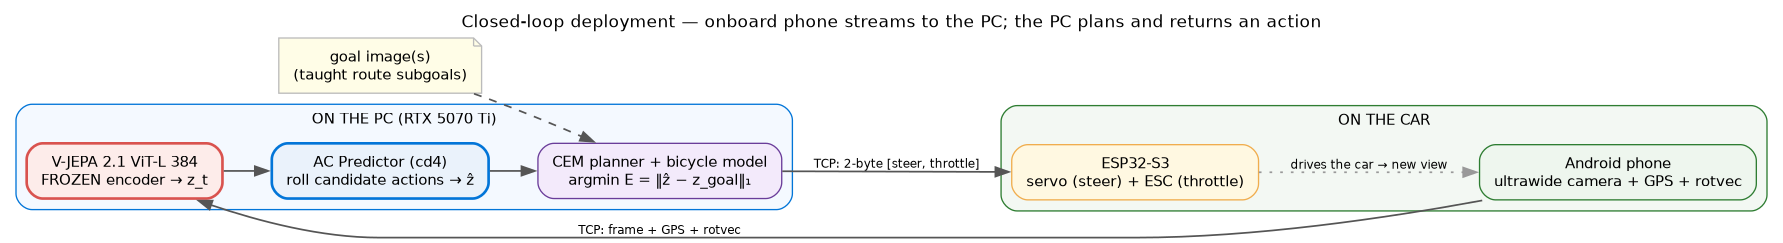
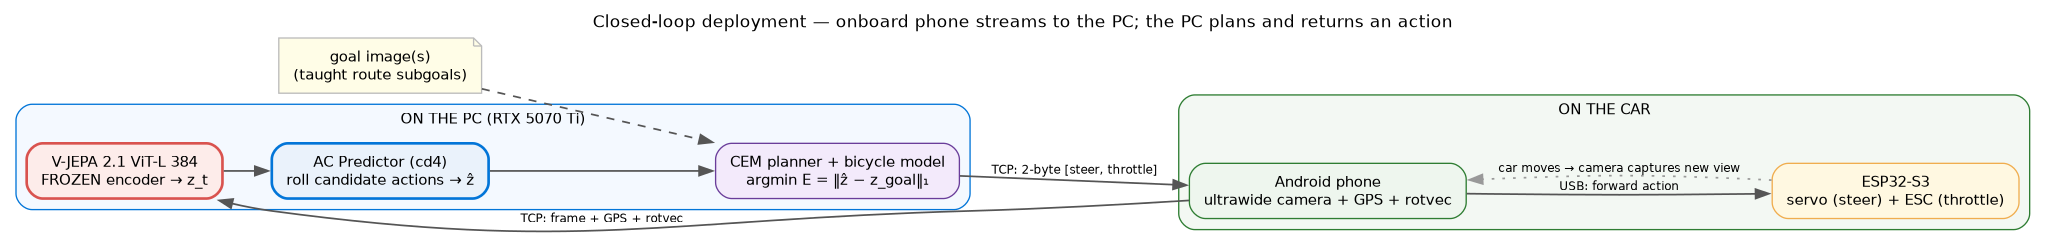
REPORT: expand §13 failure analysis, fix deploy diagram, add open-loop algo flowchart
- §13: add §13.3 (attempted localization remedies), §13.4 (standstill as
  structural creep-stop-creep issue, not --step artifact), §13.5 (latency),
  §13.6 (bicycle model vs proprioception), renumber §13.4-7 → §13.5-8
- Remove Figure 6 (action density) and Figure 19 (energy landscape);
  keep Figure 20 which is more concrete
- Fix deploy_loop.dot: action path PC→Phone(TCP)→ESP32(USB), not PC→ESP32
- Add open-loop planner algorithm as mermaid flowchart (§12.1 + §18.5)
- Fix Figure 23 caption to match corrected diagram

diff --git a/docs/report/2_REPORT_FULL.md b/docs/report/2_REPORT_FULL.md
@@ -46,7 +46,6 @@ action is generated from the visual goal, so changing the goal changes the behav
 - **Figure 3** — Representative onboard frames across time of day & both servo domains (§6.2)
 - **Figure 4** — Data pipeline: capture → sync → pair → split (§6.3)
 - **Figure 5** — Dataset overview by servo domain (§7.1)
-- **Figure 6** — Joint steering × throttle action density (§7.2)
 - **Figure 7** — Steering time series of a typical session (corrective driving) (§7.3)
 - **Figure 8** — Throttle distribution, two domains (§7.4)
 - **Figure 9** — Steering distribution (§7.4)
@@ -59,7 +58,6 @@ action is generated from the visual goal, so changing the goal changes the behav
 - **Figure 16** — Reference architecture: Meta V-JEPA 2-AC (§9.3)
 - **Figure 17** — Validation L1 loss curve (§9.6)
 - **Figure 18** — Cross-servo-domain transfer (§11.3)
-- **Figure 19** — Energy landscape / action sensitivity on a VAL session (§11.4)
 - **Figure 20** — Planner steering vs human steering (§11.4)
 - **Figure 21** — Energy contrast vs goal horizon d, justifying d = 4 (§12.1)
 - **Figure 22** — Joint energy landscape E(steer, throttle) for one VAL frame (§12.2)
@@ -381,14 +379,6 @@ domains. Session-level 80/20 split, seed 0 → **167 train / 42 val**.*
 
 *Table 1 — Action & motion distribution over all 228,511 frames.*
 
-The joint steering × throttle distribution (Figure 6) shows the actual action space the planner must
-operate in: steering spans the full range while throttle clusters tightly forward.
-
-![Joint steering × throttle density](figures/fig_data_steer_throttle_2d.png)
-*Figure 6 — Joint steering × throttle action density over the whole dataset. Throttle is concentrated
-in a narrow forward band (median 0.084) while steering uses the full [−1,1] range — this motivates the
-forward-biased throttle grid used by the planner in §12.1.*
-
 ### 7.3. The data DOES contain corrective driving
 The data is **free-form manual driving** in a park, not driving down a single straight line. With
 **13,871 turning events** and continuous two-sided steering oscillation (Figure 7), the human driver
@@ -659,15 +649,8 @@ higher because straight-driving frames also have a clear minimum at steer ≈ 0.
 
 → The model does **NOT "steer weakly" offline**: not only is it **95% correct in sign**, the chosen
 angle is also **close** to the human's — **median deviation only 0.146** on the [−1,1] scale (i.e.
-~7% of the full range). The energy minimum is clear and on the right side, on **both axes**. Figure 19
-visualizes the energy landscape on a VAL session, and Figure 20 shows the planner tracking the human's
-steering.
-
-![Energy landscape / action sensitivity](figures/fig_energy_landscape.png)
-*Figure 19 — Energy landscape on a VAL session: (A) for one turning frame, the steering energy valley
-(argmin = ●) sits on the human's turn side; (B) over the session's turning frames the model's
-sign-correct rate is ~95%; (C) the whole-session "bright ridge" (model-preferred steering) tracks the
-human's steering through the turns.*
+~7% of the full range). The energy minimum is clear and on the right side, on **both axes**. Figure 20
+shows the planner tracking the human's steering on a concrete VAL session with actual numbers.
 
 ![Planner steering vs human](figures/fig_steer_tracking.png)
 *Figure 20 — The planner picks steering that matches the human (VAL session `162959`, goal ~0.9 s
@@ -704,16 +687,30 @@ Take a held-out VAL session. For **each real frame** t:
 5. Compare against the human's real `(steer, throttle)` at that frame; **sign-turn** =
    sign(model_steer) == sign(human_steer) on frames with |human_steer| > 0.15.
 
-```
-for each real frame t in the VAL session:
-    z_t   ← latent of frame t        (pre-encoded)
-    z_goal ← latent of frame t+d     (the marker ~0.9 s ahead)
-    s_t   ← state 12-D at t
-    for (steer, throttle) in the 15×9 grid:    # 135 combinations
-        roll d steps through the AC predictor (state via bicycle model) → ẑ
-        E[steer, throttle] ← mean L1(ẑ, z_goal)
-    (steer*, throttle*) ← argmin E             # the model picks BOTH axes
-    record: sign(steer*) == sign(human_steer)?  ;  throttle* > 0?
+```mermaid
+%%{init: {'theme':'base','themeVariables':{'fontSize':'14px','primaryColor':'#eaf2fb','primaryBorderColor':'#0275d8','lineColor':'#444'}}}%%
+flowchart TB
+  START(["frame t in VAL session"]):::start --> FETCH
+  FETCH["z_t ← pre-encoded latent of frame t
+z_goal ← pre-encoded latent of frame t+d  ⟵ goal ~0.9 s ahead
+s_t ← state 12-D at t"]:::data --> GRID
+  GRID(["for (steer, throttle) in 15×9 grid — 135 combinations"]):::loop --> ROLL
+  ROLL["roll d steps: AC Predictor + bicycle model → ẑ"]:::compute --> ENERGY
+  ENERGY["E[steer, throttle] = mean L1(ẑ, z_goal)"]:::compute --> CHECK
+  CHECK{"more\ncombinations?"}:::decision
+  CHECK -- yes --> ROLL
+  CHECK -- no --> ARGMIN
+  ARGMIN["(steer*, throttle*) = argmin E
+model picks both axes simultaneously"]:::result --> RECORD
+  RECORD["sign(steer*) == sign(human_steer)?  ·  throttle* > 0?"]:::result --> NEXT
+  NEXT(["next frame t"]):::start --> FETCH
+
+  classDef start    fill:#e8f5e9,stroke:#2e7d32,stroke-width:1.5px
+  classDef data     fill:#eaf2fb,stroke:#0275d8,stroke-width:1.5px
+  classDef loop     fill:#fff8e1,stroke:#f0ad4e,stroke-width:1.5px
+  classDef compute  fill:#f3eafb,stroke:#6a3d9a,stroke-width:1.5px
+  classDef decision fill:#fdecea,stroke:#d9534f,stroke-width:1.5px
+  classDef result   fill:#e8f5e9,stroke:#2e7d32,stroke-width:1.5px
 ```
 
 **Why it is called OPEN-LOOP:** the video **plays back the real human drive** — the model **only
@@ -765,10 +762,13 @@ low-energy valley on the correct (left) turn side, at a forward throttle — a c
 > When the loop is closed for real, it **tracks the route well over the first half, then veers off**.
 > Tuning hyperparameters only **moves the breakaway point, it does not remove it** → the limit is in
 > the model/data/descriptor, not the hyperparameters. (~10 runs, 1 environment, 0 runs reached the goal
-> → the result is **qualitative + mechanistic**, not large-scale statistics.) The analysis attributes
-> the **primary** cause to the **localization stage** (a descriptor not invariant to lighting/heading),
-> **NOT** to representation quality; additionally a **secondary control deadlock when the car stands
-> still was patched** (footnote §13.3).
+> → the result is **qualitative + mechanistic**, not large-scale statistics.) The analysis identifies
+> multiple causes: the **primary** cause is the **localization stage** (a descriptor not invariant to
+> lighting/heading), **NOT** representation quality (§13.2); attempted localization remedies all fell
+> short within the deadline (§13.3); a **structural standstill deadlock** (creep–stop–creep from
+> inference latency, patched with a throttle floor — §13.4) and **variable inference latency** (§13.5)
+> force the car to drive blind between decisions; **coarse sensor state and bicycle-model dynamics**
+> (§13.6) further limit closed-loop precision.
 
 ### 13.1. Deployment & raw results
 **Flow.** *Teach:* drive manually once, capturing a sequence of goal images + GPS along the route
@@ -779,7 +779,8 @@ is a taught route with its visual subgoals.
 ![Closed-loop deployment](figures/fig_deploy_loop.png)
 *Figure 23 — Closed-loop deployment: the onboard phone streams frame + GPS + rotvec over TCP to the PC,
 which runs the frozen V-JEPA encoder → AC predictor → CEM planner and returns a 2-byte [steer,
-throttle] to the ESP32; the car drives, producing the next view. (Diagram source: `figures/src/deploy_loop.dot`.)*
+throttle] back to the **phone over TCP**; the phone forwards it to the **ESP32 over USB**, which drives
+the servo and ESC. (Diagram source: `figures/src/deploy_loop.dot`.)*
 
 ![Taught route and subgoals](figures/fig_route_graph.png)
 *Figure 24 — A taught route and its visual subgoals (the images the local CEM chases in order): the
@@ -858,10 +859,64 @@ centered-cos < 0.1 → energy flat in steering → CEM loses gradient → full-l
 > cross-session — §16). **The deadline-compatible fix = re-teach in the SAME session** (the descriptor
 > is very good when lighting is close).
 
-### 13.3. Footnote — a secondary control deadlock when the car stands still (patched, NOT the primary cause)
-While debugging with the `--step` mode, in addition to the primary cause (A) we hit a **secondary**
-issue: when the car is **standing still** the `E(steer)` landscape is also flat — but for a **dynamics**
-reason, not a descriptor reason.
+### 13.3. Attempted remedies for the localization collapse (all insufficient within the deadline)
+
+After identifying cause A, several remedies were tested. All reduced the symptom partially but did not
+eliminate the root cause (descriptor sensitivity to lighting/heading change):
+
+1. **Tuning the cosine threshold** (the cutoff below which the goal is considered "lost"). Lowering it
+   → the car pops to the next goal too eagerly on a false match; raising it → the car stays locked on a
+   collapsed goal. Moving the threshold only shifts *when* the collapse manifests, not *whether* it
+   happens. The breakaway point moves to a different subgoal — the car still veers.
+
+2. **Teaching and running in the same session, close in time.** This works: 66% of ticks have cos > 0.3
+   when teach and run are close in time vs 0% when lighting shifts (§13.2, Figure 26). However it
+   constrains operation to a narrow time window (teach, then run immediately) — the general case (teach
+   once, re-run any time) is not solved.
+
+3. **GPS-gated goal-popping** (advance to the next subgoal when GPS distance to marker < threshold
+   rather than waiting for cos > threshold). The 1 Hz GPS and ~0.44 m noise cause erratic triggering:
+   the pop fires before the car has reached the marker, or fails to fire because the GPS fix drifts.
+   Combined with heading uncertainty it does not reliably pop at the right moment.
+
+4. **CEM parameter sweeps** (N samples, K iterations, initial σ). These shift the breakaway point
+   (better coverage of the action space slightly delays the onset of flat landscape) but cannot fix the
+   root cause: once the localization cosine collapses, the goal energy is uniformly low across actions
+   → no parameter change rescues a flat landscape.
+
+The principled fix (a learned cross-session invariant descriptor — §16) was not completed before the
+deadline. The `--step` debugging mode was used to isolate each failure, but all failures reproduce in
+the continuous live loop (cause A is structural, not a mode artifact).
+
+### 13.4. Standstill deadlock — a structural problem in any latency-limited loop (patched)
+
+This is **not** an artifact of the `--step` debugging mode; it is a **structural issue** in any
+closed-loop run where inference latency is significant (§13.5). Because each CEM tick takes ~0.5–1 s,
+the car cannot maintain continuous motion: it **lurches forward with the last command, then decelerates
+and stops** while the next plan is computed. The resulting pattern is a **creep–stop–creep–stop** cycle.
+During the stopped moments the `E(steer)` landscape goes flat for a **dynamics** reason (not a
+descriptor reason), producing garbage steering that compounds the overall failure.
+
+**Mechanism (simple).** The car dynamics: `yaw_rate = k_yaw · steer · speed` (§10). When speed ≈ 0,
+**steering does not rotate the scene**, so the predictor (correctly) makes **every steering angle yield
+almost the same scene** → sweeping steer creates no energy difference → flat. In other words: **a
+stationary car has nothing to "steer toward"** — the flatness is *because the car is stopped*, not
+because the scene is unfamiliar or the model is poor.
+
+**Single-variable check** (`scripts/probe_speed_confound.py`, **same scene & goal**, only changing the
+motion state): when the car is **moving** the `E(steer)` contrast = **0.335**; when forced
+**standing-still throughout** it drops to **0.088** — collapses **~3.8×** just because the car is
+stopped, with no scene change at all. (Live measurement: throttle ≥ 0.07 → contrast 0.2–0.57;
+throttle < 0.06 → flat 0.01–0.02.)
+
+**The deadlock cycle.** The CEM throttle box `[0, 0.10]` contains a static-friction dead zone
+`[0, 0.06)`: CEM picks a low throttle → car does not move → speed = 0 → landscape flat → garbage
+steering → car stays put → next tick: same. The **patch** is a **throttle floor `TMIN = 0.07`**
+(forcing the car to always roll above the dead zone) → the steering landscape revives between ticks.
+After the patch the car drives but **still veers off at cause A** — so A is the primary bottleneck; the
+standstill deadlock is a secondary (but real and recurring) structural issue that the throttle floor
+only partially mitigates: the car still stops momentarily at each tick, just less deeply into the dead
+zone.
 
 **Mechanism (simple).** The car dynamics: `yaw_rate = k_yaw · steer · speed` (§10). When speed ≈ 0,
 **steering does not rotate the scene**, so the predictor (correctly) makes **every steering angle yield
@@ -882,7 +937,50 @@ a **static-friction dead zone** `[0, 0.06)`: CEM picks a low throttle → the ca
 This is only a **(control-mode) implementation bug that was fixed**; **after the patch the car drives
 but still veers off at cause A** — so A is the real bottleneck, B is only a footnote.
 
-### 13.4. Why it cannot recover once it has veered (relation to A)
+### 13.5. Variable inference latency: the car drives blind between decisions
+
+A structural constraint that fundamentally limits closed-loop quality, independent of the planner's
+quality: **the control loop is not real-time**. One CEM tick costs **≈ 0.5 s (32 samples / 1 iteration)**
+at minimum; a denser search (256/2) costs **≈ 5.5 s** (Table 7 bench). During that entire compute
+round-trip — phone TCP stream → PC encode → CEM → action → ESP32 — **the car drives blind** with
+whatever the last command was.
+
+- **Stale-state planning.** The bicycle model in CEM integrates forward from the *current* state
+  (speed, heading). But "current" is already **0.5–1.5 s stale** by the time the action is computed
+  and acted upon. At 1 m/s walking pace this means the car is **0.5–1.5 m ahead** of where the model
+  thinks it is — so the planned action is optimal for a past position, not the present one.
+- **Aperiodic loop.** TCP buffering, GPU scheduling, and variable CEM budget (the number of valid
+  samples varies per tick) all make the inter-tick interval **non-constant**. The bicycle model
+  integrates a fixed `dt`; any mismatch between assumed and real `dt` accumulates heading error.
+- **Latency × veering interaction.** Once the localization collapse (§13.2) begins pushing the car
+  off-route, a 0.5–1 s dead-time between corrections gives the car **0.5–1 m of uncontrolled drift**
+  per cycle, rapidly compounding the off-route displacement.
+- **Root cause.** ViT-L cannot run on the phone → off-board GPU required → TCP round-trip latency
+  unavoidable with this architecture. On-board inference (a lighter encoder or NPU quantization) would
+  reduce dead-time to < 50 ms, but is outside the current hardware budget.
+
+### 13.6. State approximation: bicycle model vs. proprioception
+
+Meta's V-JEPA 2-AC runs on a robot arm with **7-D sub-mm proprioception** (exact Cartesian pose +
+joint angles sampled at the servo controller frequency). The arm's CEM plans in the *exact* current
+state. Our car's state at inference time is fundamentally coarser:
+
+- **Speed from GPS at 1 Hz** (then interpolated), with ~0.44 m position noise → speed estimate is
+  delayed and smoothed, not instantaneous.
+- **Heading from phone IMU** (gyro integration + magnetometer). The phone compass is unreliable
+  outdoors near the brushless motor and ESC (strong magnetic interference) — large heading errors were
+  observed when attempting geometric heading-following.
+- **No absolute position at inference time** (only coarse GPS for goal-popping, not for control).
+- **Bicycle model** (`yaw_rate = k_yaw · steer · speed`) is a linearized kinematic approximation:
+  it assumes no tire slip, flat terrain, and constant drag coefficients. A real RC car on outdoor
+  gravel/grass has significant slip, load transfer on bumps, and nonlinear tire behavior.
+- **Consequence.** The CEM rolls forward an imprecise state through an imprecise model — so even when
+  the energy landscape is clear, the action that *actually* moves the car in the right direction can
+  deviate from what the bicycle model predicts. By contrast, Meta's arm has exact state → exact
+  dynamics → CEM explores the real state space accurately. This gap is not a failure of the V-JEPA
+  representation; it is a **sensor + dynamics modeling gap** inherent to the current mobile rig.
+
+### 13.7. Why it cannot recover once it has veered (relation to A)
 Teach&repeat only captures goal images **along one path** (during teaching the car is in the middle of
 the route). When the car **veers out of the taught corridor**, the live image falls into a region *never
 captured as a marker* → the cosine to the next marker drops (exactly mechanism A) → **there is no valid
@@ -892,13 +990,16 @@ back when off-route**, i.e. a consequence of the *teach-once-down-the-middle* me
 collapse (A), not "the driving data lacks recovery". (A latent-level remedy — token-shift augmentation —
 is discussed in §16 as future work.)
 
-### 13.5. Comparison with Meta (V-JEPA 2-AC)
+### 13.8. Comparison with Meta (V-JEPA 2-AC)
 - **Meta (robot arm):** a fixed tabletop scene, actions cause large + immediate scene changes, **no**
   heading / lighting / lateral offset to deal with. Meta's "cm-accurate" claim matches the arm's
-  **proprioception** (**a different measurement**), not "a more accurate world model".
-- **Our car (outdoor):** action → small scene change + **cosine-localization-dropout** (lighting/heading
-  shift between teach and run) → **far harder on robustness**. Same architecture family; the gap is not
-  in the representation but in **localization robustness** under real domain shift.
+  **sub-mm proprioception** (**a different measurement** — exact Cartesian pose, not a world-model
+  accuracy claim), not "a more accurate world model". CEM plans in the exact current state.
+- **Our car (outdoor):** action → small scene change + **cosine-localization-dropout** (§13.2,
+  lighting/heading shift between teach and run) + **0.5–1 s blind dead-time per tick** (§13.5) +
+  **coarse GPS/IMU state and bicycle-model dynamics** (§13.6) → **far harder on robustness than a
+  fixed tabletop**. Same architecture family; the gap is not in the representation but in
+  **localization robustness** under real domain shift, compounded by sensor + latency constraints.
 
 ---
 
@@ -1109,6 +1210,33 @@ flowchart LR
   classDef train fill:#eaf2fb,stroke:#0275d8,stroke-width:2px;
   class ENC frozen;
   class PRED train;
+```
+
+**Algorithm — Open-loop planner (§12.1) (`open_loop_algo.mmd`):**
+```mermaid
+%%{init: {'theme':'base','themeVariables':{'fontSize':'14px','primaryColor':'#eaf2fb','primaryBorderColor':'#0275d8','lineColor':'#444'}}}%%
+flowchart TB
+  START(["frame t in VAL session"]):::start --> FETCH
+  FETCH["z_t ← pre-encoded latent of frame t
+z_goal ← pre-encoded latent of frame t+d  ⟵ goal ~0.9 s ahead
+s_t ← state 12-D at t"]:::data --> GRID
+  GRID(["for (steer, throttle) in 15×9 grid — 135 combinations"]):::loop --> ROLL
+  ROLL["roll d steps: AC Predictor + bicycle model → ẑ"]:::compute --> ENERGY
+  ENERGY["E[steer, throttle] = mean L1(ẑ, z_goal)"]:::compute --> CHECK
+  CHECK{"more\ncombinations?"}:::decision
+  CHECK -- yes --> ROLL
+  CHECK -- no --> ARGMIN
+  ARGMIN["(steer*, throttle*) = argmin E
+model picks both axes simultaneously"]:::result --> RECORD
+  RECORD["sign(steer*) == sign(human_steer)?  ·  throttle* > 0?"]:::result --> NEXT
+  NEXT(["next frame t"]):::start --> FETCH
+
+  classDef start    fill:#e8f5e9,stroke:#2e7d32,stroke-width:1.5px
+  classDef data     fill:#eaf2fb,stroke:#0275d8,stroke-width:1.5px
+  classDef loop     fill:#fff8e1,stroke:#f0ad4e,stroke-width:1.5px
+  classDef compute  fill:#f3eafb,stroke:#6a3d9a,stroke-width:1.5px
+  classDef decision fill:#fdecea,stroke:#d9534f,stroke-width:1.5px
+  classDef result   fill:#e8f5e9,stroke:#2e7d32,stroke-width:1.5px
 ```
 
 **Figure 16 — Meta V-JEPA 2-AC (`arch_meta.mmd`):**